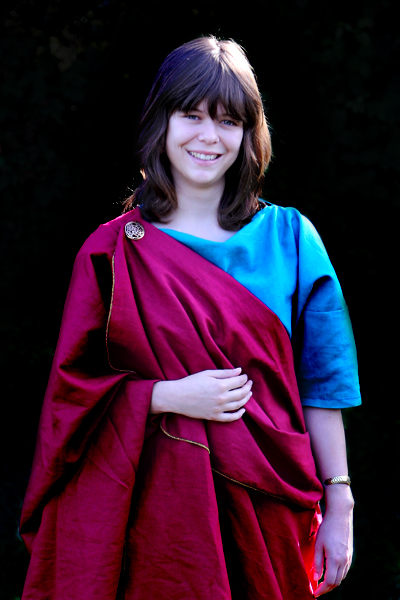
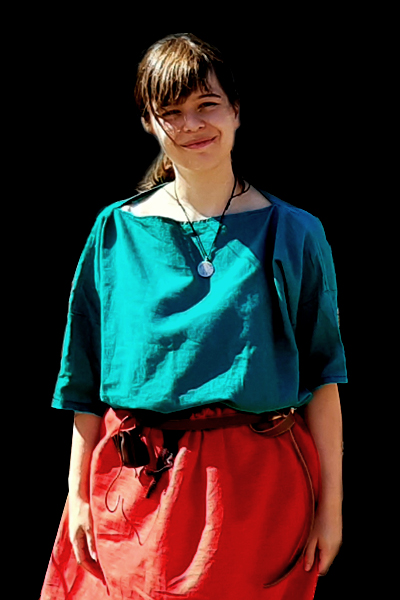
update character of Kristin

diff --git a/pages/mitglieder/index.vue b/pages/mitglieder/index.vue
@@ -82,9 +82,9 @@ export default {
       },
       {
         img: 'Kristin',
-        name: 'Bürgerin Kristina',
+        name: 'Rhamis, Tochter eines Chatten',
         text:
-          'Man sagt sie war eine angesehene römische Bürgerin, bis sie sich scheinbar in einen prahlerischen Legionär verguckte.'
+          'Verschleppt nach Rom, konnte sie entkommen und schloss sich zu ihrem eigenen Schutz dieser Gruppe Legionären an um wieder in ihre Heimat zu gelangen.'
       },
       {
         img: 'Thomas',
